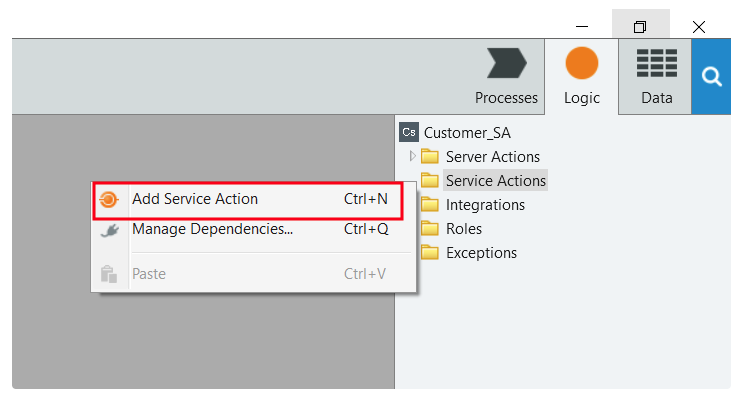
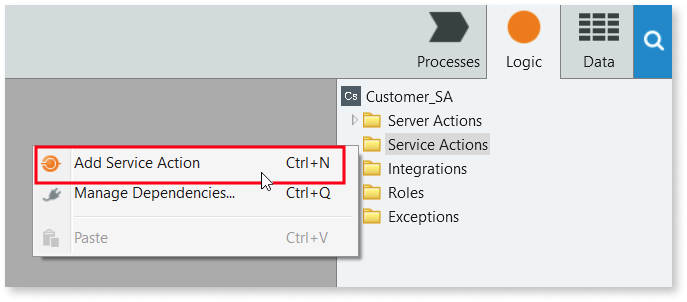
Fixed width

diff --git a/src/develop/reuse-and-refactor/services.md b/src/develop/reuse-and-refactor/services.md
@@ -54,7 +54,7 @@ Each time the implementation of an exposed Server Action changes, the consumer m
 
 In OutSystems, a **Service Action** is a REST based remote call to another process, but its usage is very similar to public Server Actions. 
 
-![](images/services-2.png?width=600)
+![](images/services-2.png)
 
 Exposing a Service Action generates a [weak dependency](strong-weak-dependencies.md#weak-dependencies) from the consumer to the producer module, in a **loosely-coupled** way.
 
